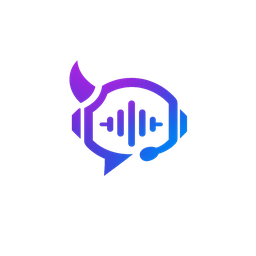
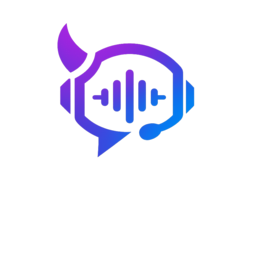
fix: seleção múltipla e ícone do Halla

Changed region(s): [[0.2188, 0.0938, 0.7812, 0.6875]]

diff --git a/src/gui/ServerTreeWidget.cpp b/src/gui/ServerTreeWidget.cpp
@@ -457,10 +457,15 @@ void ServerTreeWidget::addUserItem(QTreeWidgetItem* chanItem, const User& u) {
 // ------------------------------------------------------------------ menus de contexto
 void ServerTreeWidget::contextMenuEvent(QContextMenuEvent* e) {
     QTreeWidgetItem* it = itemAt(e->pos());
+    // Guarda a seleção antes de chamar setCurrentItem(): em algumas versões
+    // do Qt essa chamada limpa a seleção estendida mesmo quando o item clicado
+    // já estava selecionado.
+    const QList<int> selectedBefore = selectedChannelIds();
+    const bool clickedWasSelected = it && it->isSelected();
     if (it) {
         // Um clique direito em um item já selecionado preserva a seleção
         // estendida. Em um item fora dela, começa uma nova seleção.
-        if (!it->isSelected()) {
+        if (!clickedWasSelected) {
             clearSelection();
             it->setSelected(true);
         }
@@ -469,8 +474,21 @@ void ServerTreeWidget::contextMenuEvent(QContextMenuEvent* e) {
 
     const int kind = it ? it->data(0, RoleKind).toInt() : NodeServer;
     const int id   = it ? it->data(0, RoleId).toInt() : 0;
-    const QList<int> selectedChannels = selectedChannelIds();
+    const QList<int> selectedChannels = clickedWasSelected && selectedBefore.size() >= 2
+        ? selectedBefore : selectedChannelIds();
     QMenu menu(this);
+
+    // As ações ficam disponíveis independentemente de o clique direito ter
+    // caído no canal, em um usuário ou na raiz do servidor. O que importa é a
+    // seleção múltipla preservada acima.
+    if (selectedChannels.size() >= 2) {
+        const QList<int> ids = selectedChannels;
+        menu.addAction(tr("Vincular canais selecionados"), this,
+                       [this, ids] { emit channelLinkRequested(ids, true); });
+        menu.addAction(tr("Desvincular canais selecionados"), this,
+                       [this, ids] { emit channelLinkRequested(ids, false); });
+        menu.addSeparator();
+    }
 
     if (!it || kind == NodeServer) {
         // menu do servidor — como clicar na aba do servidor no Halla
@@ -485,15 +503,6 @@ void ServerTreeWidget::contextMenuEvent(QContextMenuEvent* e) {
     } else if (kind == NodeChannel) {
         const Channel& c = m_data->channels[id];
         const bool inside = c.users.contains(m_data->selfId);
-
-        if (selectedChannels.size() >= 2) {
-            const QList<int> ids = selectedChannels;
-            menu.addAction(tr("Vincular canais selecionados"), this,
-                           [this, ids] { emit channelLinkRequested(ids, true); });
-            menu.addAction(tr("Desvincular canais selecionados"), this,
-                           [this, ids] { emit channelLinkRequested(ids, false); });
-            menu.addSeparator();
-        }
 
         QAction* join = menu.addAction(HIcons::check(), tr("Alternar para o canal"), this,
                        [this, id] { emit joinChannelRequested(id); });

diff --git a/src/gui/Icons.cpp b/src/gui/Icons.cpp
@@ -5,6 +5,7 @@
 #include <QPainterPath>
 #include <QLinearGradient>
 #include <QFont>
+#include <QImage>
 #include <cmath>
 
 namespace HIcons {
@@ -22,11 +23,29 @@ static QPixmap mk(int w, int h, const std::function<void(QPainter&)>& fn) {
 static QPixmap mk(int s, const std::function<void(QPainter&)>& fn) { return mk(s, s, fn); }
 
 static QPixmap officialLogo(int size) {
-    const QPixmap source(QStringLiteral(":/halla/assets/halla-logo.png"));
-    if (!source.isNull()) {
-        return source.scaled(size, size, Qt::KeepAspectRatio, Qt::SmoothTransformation);
+    const QImage source(QStringLiteral(":/halla/assets/halla-logo.png"));
+    if (source.isNull()) return QPixmap();
+
+    // O arquivo oficial é 1024x1024, mas a marca ocupa apenas a região
+    // central. Escalar a imagem inteira fazia o ícone da janela e da bandeja
+    // parecerem minúsculos no Windows. Recorta pelo canal alfa antes de
+    // redimensionar, preservando uma pequena margem para não encostar nas
+    // bordas do ícone.
+    QRect bounds;
+    for (int y = 0; y < source.height(); ++y) {
+        for (int x = 0; x < source.width(); ++x) {
+            if (source.pixelColor(x, y).alpha() > 8) {
+                bounds = bounds.isNull() ? QRect(x, y, 1, 1)
+                                         : bounds.united(QRect(x, y, 1, 1));
+            }
+        }
     }
-    return QPixmap();
+    if (bounds.isNull()) return QPixmap();
+
+    const int pad = qMax(2, qMin(bounds.width(), bounds.height()) / 24);
+    bounds = bounds.adjusted(-pad, -pad, pad, pad).intersected(source.rect());
+    return QPixmap::fromImage(source.copy(bounds)).scaled(
+        size, size, Qt::KeepAspectRatio, Qt::SmoothTransformation);
 }
 
 // ---------------------------------------------------------------- marca d'água / logo

diff --git a/src/app/MainWindow.cpp b/src/app/MainWindow.cpp
@@ -55,7 +55,9 @@ bool specToVk(const QKeySequence& ks, UINT& vk, UINT& mods);
 
 MainWindow::MainWindow(QWidget* parent) : QMainWindow(parent) {
     setWindowTitle(QString::fromUtf8(halla::kAppName));
-    setWindowIcon(QIcon(HIcons::appIcon(64)));
+    // Mantém uma fonte grande para que o Windows escolha uma versão nítida
+    // na janela, na barra de tarefas e no Alt+Tab.
+    setWindowIcon(QIcon(HIcons::appIcon(256)));
     setMinimumSize(1100, 700);
     resize(1706, 922);
 
@@ -493,7 +495,7 @@ MainWindow::MainWindow(QWidget* parent) : QMainWindow(parent) {
 
     // ------------------------- bandeja do sistema ------------------------
     if (QSystemTrayIcon::isSystemTrayAvailable()) {
-        m_tray = new QSystemTrayIcon(QIcon(HIcons::appIcon(32)), this);
+        m_tray = new QSystemTrayIcon(QIcon(HIcons::appIcon(64)), this);
         QMenu* trayMenu = new QMenu(this);
         QAction* show = trayMenu->addAction(tr("Mostrar Halla"), this, [this] {
             showNormal();

diff --git a/src/main.cpp b/src/main.cpp
@@ -315,7 +315,7 @@ int main(int argc, char* argv[]) {
     QApplication::setOrganizationName(QStringLiteral("Halla"));
     QApplication::setApplicationDisplayName(QStringLiteral("Halla"));
     QApplication::setApplicationVersion(QString::fromUtf8(halla::kAppVersion));
-    QApplication::setWindowIcon(QIcon(HIcons::appIcon(64)));
+    QApplication::setWindowIcon(QIcon(HIcons::appIcon(256)));
 
     HallaTranslator translator;
     app.installTranslator(&translator);

diff --git a/src/version.h b/src/version.h
@@ -2,7 +2,7 @@
 
 namespace halla {
 constexpr const char* kAppName    = "Halla";
-constexpr const char* kAppVersion = "3.13.45";
+constexpr const char* kAppVersion = "3.13.46";
 constexpr const char* kAppBuild   = "estável";
 constexpr const char* kOrgName    = "Halla";
 }
